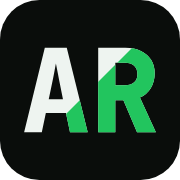
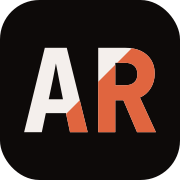
Refactor color scheme and update assets
- Updated color palette in 404.html and resume/index.html to use new brand colors.
- Modified CSS variables in style.css to reflect new brand colors and ensure semantic meanings are preserved.
- Enhanced theme toggle functionality in script.js with a crossfade effect for smoother transitions.
- Updated SVG assets for logo and favicon to align with new branding.
- Changed button and link colors to match the new design aesthetic.

diff --git a/style.css b/style.css
@@ -54,11 +54,14 @@
 
 /* ── 1. Tokens ─────────────────────────────────────────────── */
 :root {
-  /* Brand green: kept, but used as a signal, never as decoration. */
-  --green-400: #4ade80;
-  --green-500: #22c55e;
-  --green-600: #16a34a;
-  --green-700: #15803d;
+  /* Brand terracotta: kept, but used as a signal, never as decoration. */
+  --brand-400: #f08a6a;
+  --brand-500: #e0653f;
+  --brand-600: #c14a29;
+  --brand-700: #9c3a20;
+
+  /* Semantic, not brand: "available" must stay green to read as available. */
+  --ok: #46a35f;
 
   /* Dark is the default surface. */
   --bg:         #08090a;
@@ -70,12 +73,12 @@
   --text:       #ecedec;
   --text-2:     #9ba09d;
   --text-3:     #7f8582;
-  --accent:     var(--green-500);
-  --accent-ink: var(--green-400);
-  --accent-wash:rgba(34, 197, 94, .10);
-  --on-accent:  #04140b;
+  --accent:     var(--brand-500);
+  --accent-ink: var(--brand-400);
+  --accent-wash:rgba(224, 101, 63, .10);
+  --on-accent:  #1a0703;
   --shadow:     0 1px 2px rgba(0,0,0,.4), 0 12px 32px -18px rgba(0,0,0,.9);
-  --focus:      var(--green-400);
+  --focus:      var(--brand-400);
 
   /* Type */
   --sans: 'Switzer', ui-sans-serif, -apple-system, BlinkMacSystemFont, 'Segoe UI', Roboto, sans-serif;
@@ -106,12 +109,13 @@
   --text:       #232824;
   --text-2:     #5b615c;
   --text-3:     #656b66;
-  --accent:     var(--green-700);
-  --accent-ink: #196b37;
-  --accent-wash:rgba(21, 128, 61, .07);
-  --on-accent:  #f7fbf8;
+  --accent:     var(--brand-700);
+  --accent-ink: #8f3319;
+  --ok:         #2f7d47;
+  --accent-wash:rgba(156, 58, 32, .07);
+  --on-accent:  #fdf7f5;
   --shadow:     0 1px 2px rgba(26,31,27,.04), 0 14px 34px -24px rgba(26,31,27,.4);
-  --focus:      var(--green-700);
+  --focus:      var(--brand-700);
 }
 
 /* ── 2. Reset & base ───────────────────────────────────────── */
@@ -225,11 +229,11 @@ h1, h2, h3, h4 { font-weight: 500; line-height: 1.15; letter-spacing: -.015em; }
   color: var(--on-accent);
 }
 .btn--primary:hover {
-  background: var(--green-400);
-  border-color: var(--green-400);
+  background: var(--brand-400);
+  border-color: var(--brand-400);
   color: var(--on-accent);
 }
-[data-theme="light"] .btn--primary:hover { background: var(--green-600); border-color: var(--green-600); }
+[data-theme="light"] .btn--primary:hover { background: var(--brand-600); border-color: var(--brand-600); }
 .btn--primary .ico { transition: transform .22s var(--ease); }
 .btn--primary:hover .ico { transform: translateX(3px); }
 
@@ -264,10 +268,10 @@ h1, h2, h3, h4 { font-weight: 500; line-height: 1.15; letter-spacing: -.015em; }
 }
 .tag--accent {
   color: var(--accent-ink);
-  border-color: rgba(34, 197, 94, .32);
+  border-color: rgba(224, 101, 63, .32);
   background: var(--accent-wash);
 }
-[data-theme="light"] .tag--accent { border-color: rgba(21, 128, 61, .28); }
+[data-theme="light"] .tag--accent { border-color: rgba(156, 58, 32, .28); }
 
 .stack {
   display: flex;
@@ -296,8 +300,8 @@ h1, h2, h3, h4 { font-weight: 500; line-height: 1.15; letter-spacing: -.015em; }
 .status__dot {
   width: 7px; height: 7px;
   border-radius: 50%;
-  background: var(--green-500);
-  box-shadow: 0 0 0 3px rgba(34, 197, 94, .18);
+  background: var(--ok);
+  box-shadow: 0 0 0 3px rgba(70, 163, 95, .18);
 }
 
 /* Upwork mark is tinted with currentColor so it reads in both themes. */
@@ -876,6 +880,19 @@ h1, h2, h3, h4 { font-weight: 500; line-height: 1.15; letter-spacing: -.015em; }
   opacity: 1;
   transform: none;
   transition: opacity .6s var(--ease), transform .6s var(--ease);
+}
+
+/* Theme crossfade. Only live for the ~280ms after a toggle click: a blanket
+   transition would otherwise animate every hover and the intro as well. */
+.theme-fade, .theme-fade *, .theme-fade *::before, .theme-fade *::after {
+  transition: background-color .28s var(--ease),
+              border-color     .28s var(--ease),
+              color            .28s var(--ease),
+              fill             .28s var(--ease),
+              stroke           .28s var(--ease),
+              box-shadow       .28s var(--ease),
+              outline-color    .28s var(--ease) !important;
+  transition-delay: 0s !important;
 }
 
 @media (prefers-reduced-motion: reduce) {

diff --git a/404.html b/404.html
@@ -16,20 +16,20 @@
     padding: 2rem; background: #08090a; color: #ecedec;
     font-family: 'Switzer', ui-sans-serif, system-ui, sans-serif; line-height: 1.6;
   }
-  .code { font-family: 'JetBrains Mono', monospace; font-size: .72rem; letter-spacing: .14em; text-transform: uppercase; color: #4ade80; }
+  .code { font-family: 'JetBrains Mono', monospace; font-size: .72rem; letter-spacing: .14em; text-transform: uppercase; color: #f08a6a; }
   h1 { font-family: 'Zodiak', Georgia, serif; font-weight: 400; font-size: clamp(2rem, 1.4rem + 2.4vw, 3rem); line-height: 1.1; letter-spacing: -.02em; max-width: 18ch; }
   p { color: #9ba09d; max-width: 46ch; }
   a.btn {
     justify-self: start; display: inline-flex; align-items: center; gap: .5rem;
     margin-top: .5rem; padding: .7rem 1.15rem; border-radius: 999px;
-    background: #22c55e; color: #04140b; text-decoration: none; font-weight: 500;
+    background: #e0653f; color: #1a0703; text-decoration: none; font-weight: 500;
   }
-  a.btn:hover { background: #4ade80; }
+  a.btn:hover { background: #f08a6a; }
   @media (prefers-color-scheme: light) {
     body { background: #f4f3ef; color: #232824; }
-    .code { color: #15803d; }
+    .code { color: #9c3a20; }
     p { color: #5b615c; }
-    a.btn { background: #15803d; color: #f7fbf8; }
+    a.btn { background: #9c3a20; color: #fdf7f5; }
   }
 </style>
 </head>

diff --git a/script.js b/script.js
@@ -27,8 +27,18 @@
 
   applyTheme(root.getAttribute('data-theme') || 'dark');
 
+  let fadeTimer;
   toggle?.addEventListener('click', () => {
     const next = root.getAttribute('data-theme') === 'dark' ? 'light' : 'dark';
+
+    // Crossfade the swap, but never the first paint: the class goes on for the
+    // length of the transition only. Rapid clicks just restart the window.
+    if (!reduceMotion) {
+      root.classList.add('theme-fade');
+      clearTimeout(fadeTimer);
+      fadeTimer = setTimeout(() => root.classList.remove('theme-fade'), 300);
+    }
+
     applyTheme(next);
     try { localStorage.setItem('theme', next); } catch (e) { /* private mode */ }
   });

diff --git a/resume/index.html b/resume/index.html
@@ -13,8 +13,8 @@
     background: #08090a; color: #9ba09d;
     font: 15px/1.6 ui-sans-serif, -apple-system, Segoe UI, Roboto, sans-serif;
   }
-  a { color: #4ade80; }
-  @media (prefers-color-scheme: light) { body { background: #f4f3ef; color: #5b615c; } a { color: #15803d; } }
+  a { color: #f08a6a; }
+  @media (prefers-color-scheme: light) { body { background: #f4f3ef; color: #5b615c; } a { color: #9c3a20; } }
 </style>
 </head>
 <body>
